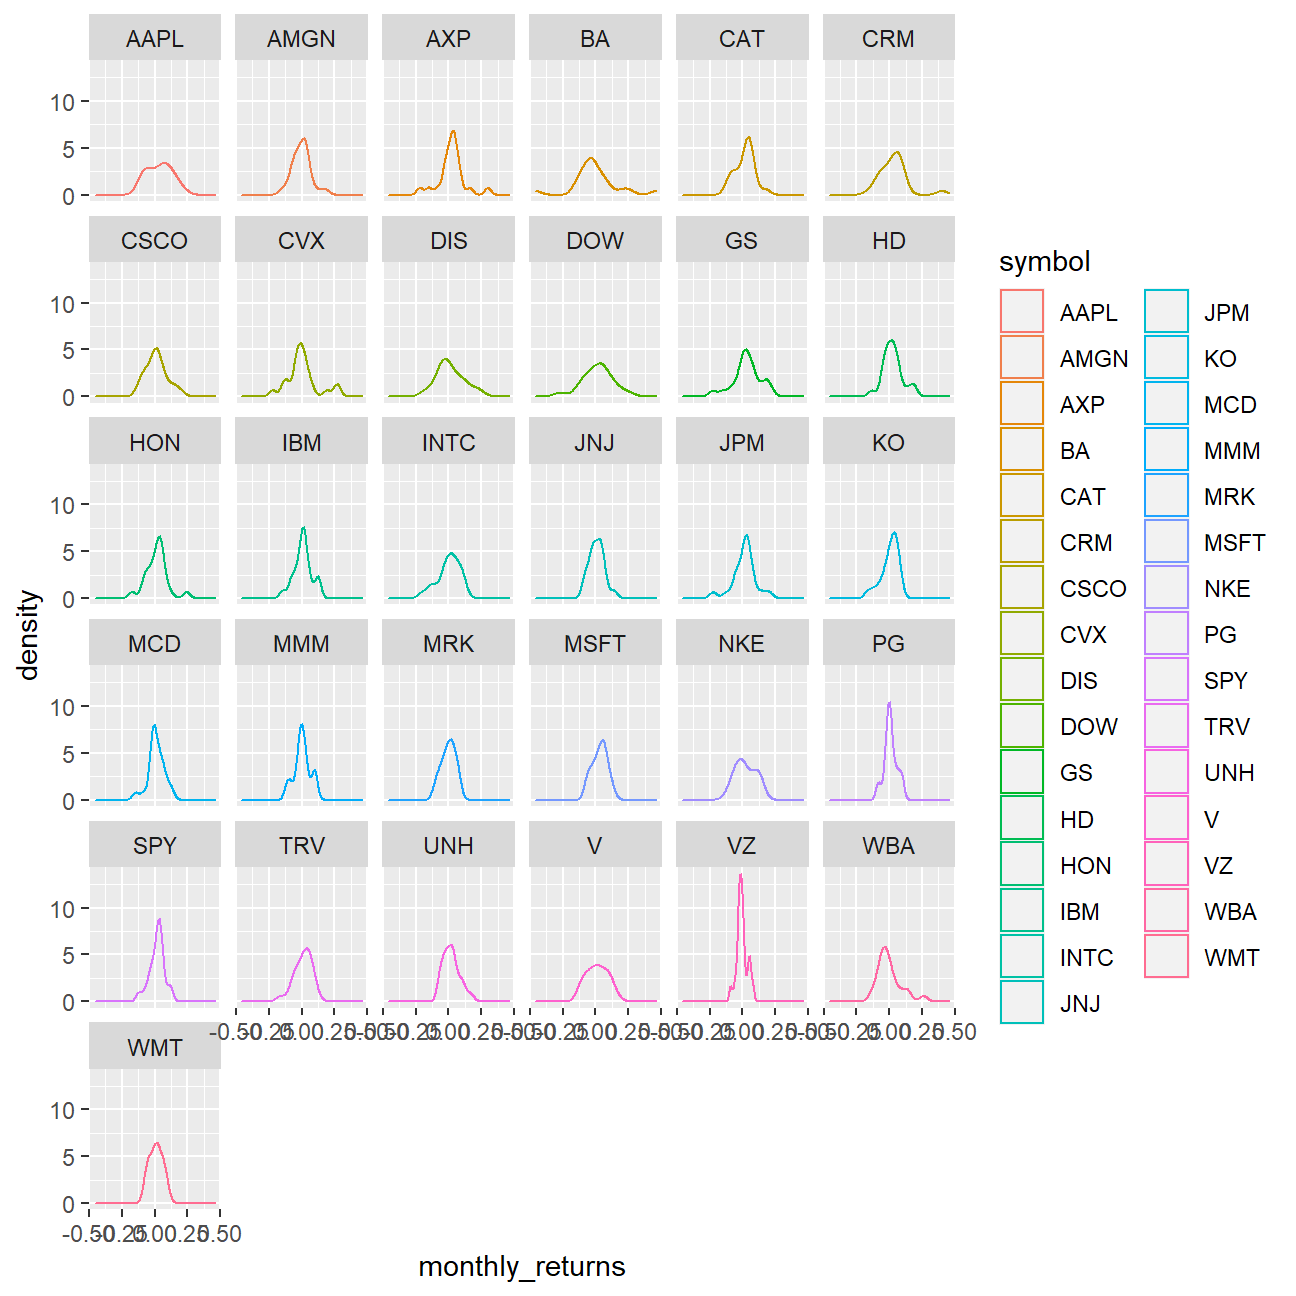
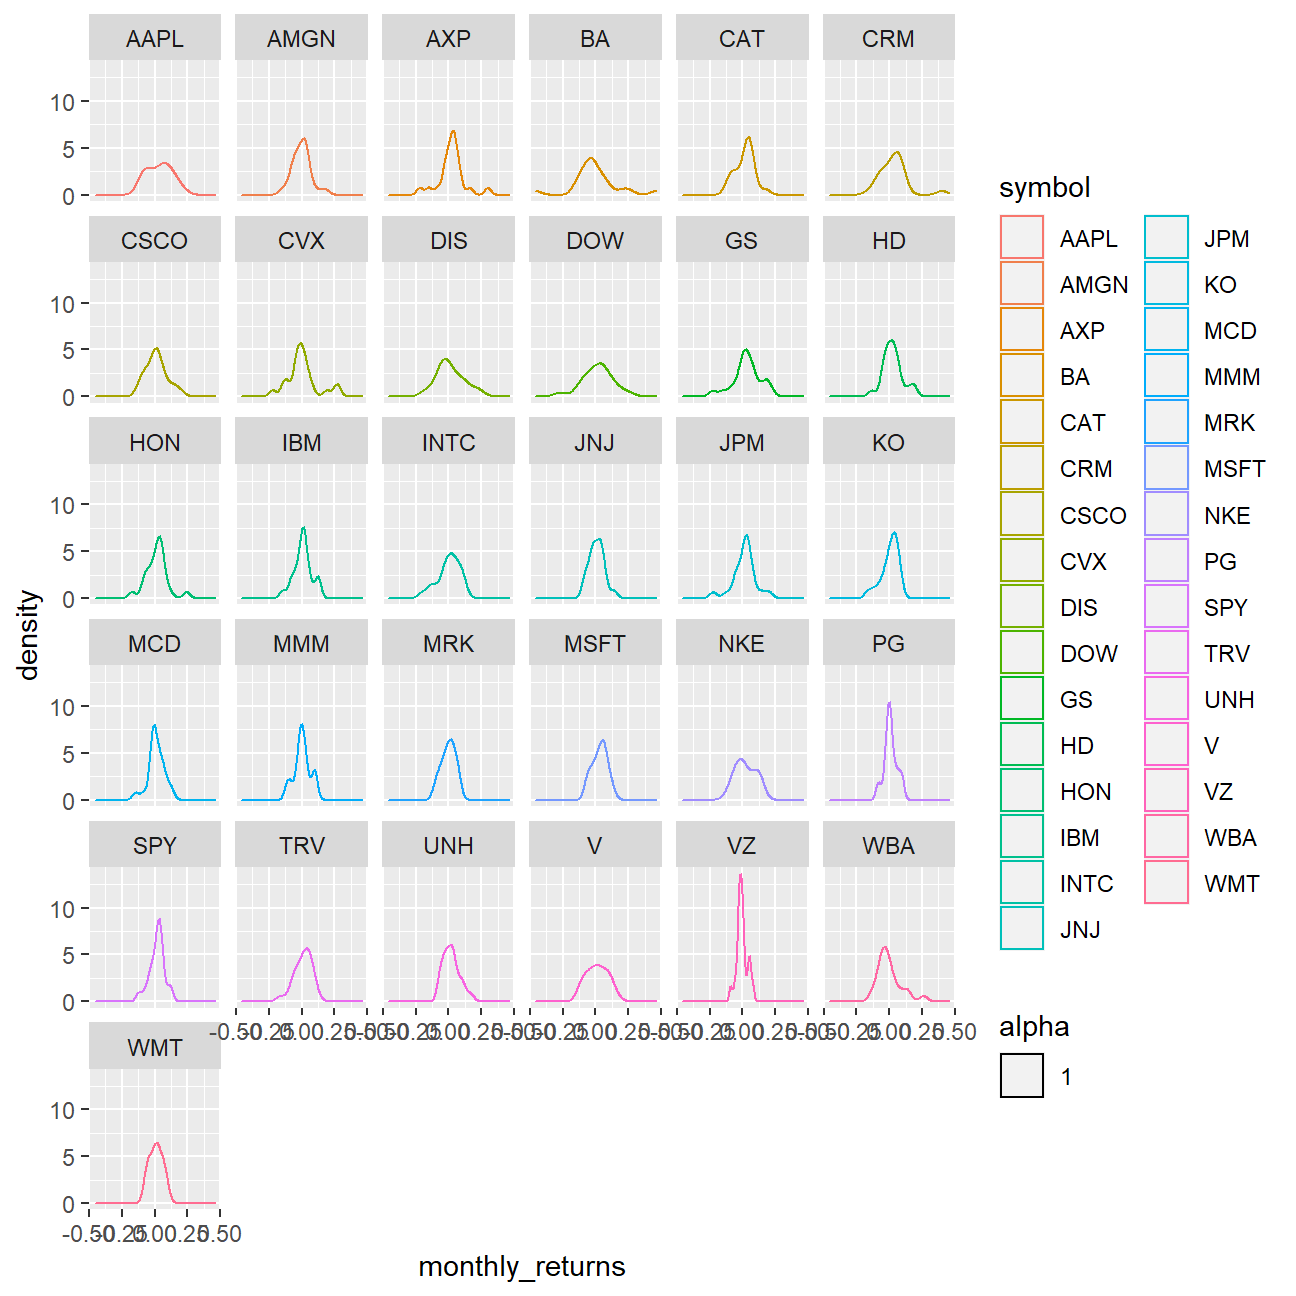
initial commit

Changed region(s): [[0.7716, 0.1543, 0.9877, 0.8025], [0.7716, 0.1235, 0.8333, 0.1543]]

diff --git a/content/blogs/assignment_one.html b/content/blogs/assignment_one.html
@@ -19,10 +19,7 @@ title: Risk Return of DJIA Industrial Average
 
 <div id="my-first-r-assigment" class="section level2">
 <h2>My First R Assigment</h2>
-<p>The following graphs are about the performance of DJIA and the methodologies regarding the process to reach each graphs. The work was part of my first R assignment I had done with my study group in Data Analytics for Finance course at LBS.</p>
-</div>
-<div id="returns-of-financial-stocks" class="section level1">
-<h1>Returns of financial stocks</h1>
+<p>The following graphs are about the performance of DJIA and the methodologies regarding the processes to reach each graphs. The work was part of my first R assignment I had done with my study group in Data Analytics for Finance course at LBS.</p>
 <p>We start off by downloading stock data from the New York Stock Exchange:</p>
 <pre class="r"><code>nyse &lt;- read_csv(here::here(&quot;data&quot;,&quot;nyse.csv&quot;))</code></pre>
 <p>Then we create a table and a bar plot that shows the number of companies per sector, in descending order:</p>
@@ -244,7 +241,7 @@ myStocks_returns_annual &lt;- myStocks %&gt;%
                type       = &quot;arithmetic&quot;,
                col_rename = &quot;yearly_returns&quot;,
                cols = c(nested.col))</code></pre>
-<p><strong>Creating a table summarizing monthly returns for each of the stocks and <code>SPY</code></strong></p>
+<p>Creating a table summarizing monthly returns for each of the stocks and <code>SPY</code></p>
 <pre class="r"><code>myStocks_returns_monthly %&gt;% #We take the relevant dataset.
   group_by(symbol) %&gt;% #We group the stocks by symbol.
   summarise(min=min(monthly_returns),max=max(monthly_returns),median=median(monthly_returns),mean=mean(monthly_returns),sd=sd(monthly_returns)) %&gt;% #We summarise to obtain the minimum, maximum, median, mean and standard deviation of monthly returns.
@@ -898,13 +895,12 @@ BA
 </tr>
 </tbody>
 </table>
-<div id="density-plot-for-each-stock" class="section level2">
-<h2>Density plot for each stock</h2>
-<p><strong>Creating a density plot, using <code>geom_density()</code>, for each of the stocks</strong></p>
+<p><strong>Density plot for each stock</strong></p>
+<p>Creating a density plot, using <code>geom_density()</code>, for each of the stocks</p>
 <pre class="r"><code>myStocks_returns_monthly %&gt;% #We take the relevant dataset.
   group_by(symbol) %&gt;% #We group the stocks by symbol.
   ggplot(aes(x = monthly_returns)) + #We define the x-axis of our density plots.
-  geom_density(aes(colour = symbol), alpha = 1) + #We create our density plots.
+  geom_density(aes(colour = symbol,alpha = 1)) + #We create our density plots.
   facet_wrap(vars(symbol)) #We create a density plot for each stock symbol.</code></pre>
 <p><img src="/blogs/assignment_one_files/figure-html/density_monthly_returns-1.png" width="648" style="display: block; margin: auto;" /></p>
 <pre class="r"><code>myStocks_returns_monthly %&gt;% #We take the relevant dataset.
@@ -1370,10 +1366,8 @@ VZ
 </table>
 <p><strong>What can we infer from this plot and which stock is the riskiest/least risky?</strong></p>
 <p>From this plot and a table ranking the stock by the standard deviation of their monthly returns, we can see that the stock BA is the riskiest, whereas the stock VZ is the least risky.</p>
-</div>
-<div id="plotting-expected-return-and-standard-deviation" class="section level2">
-<h2>Plotting expected return and standard deviation</h2>
-<p><strong>Plot that shows the expected monthly return (mean) of a stock on the Y axis and the risk (standard deviation) in the X-axis</strong></p>
+<p><strong>Plotting expected return and standard deviation</strong></p>
+<p>Plot that shows the expected monthly return (mean) of a stock on the Y axis and the risk (standard deviation) in the X-axis</p>
 <pre class="r"><code># YOUR CODE GOES HERE
 myStocks_returns_monthly %&gt;%
 group_by(symbol) %&gt;%
@@ -1397,5 +1391,4 @@ NULL</code></pre>
 <p><img src="/blogs/assignment_one_files/figure-html/risk_return_plot-1.png" width="648" style="display: block; margin: auto;" /></p>
 <p><strong>What can you we infer from this plot? Are there any stocks which, while being riskier, do not have a higher expected return?</strong></p>
 <p>The graph plots each stock’s standard deviations against their expected returns. The stocks in the fourth quadrant (bottom right) of the graph have both the highest SD, hence the highest beta, and the lowest historic returns. We would expect these stocks to be poor investments, as they are those that bear the highest risk and the lowest expected returns.</p>
-</div>
 </div>

diff --git a/content/blogs/metavee.html b/content/blogs/metavee.html
@@ -8,12 +8,12 @@ categories:
 - ''
 - ''
 draft: no
+image: me2.jpg
 ---
 
 <script src="/rmarkdown-libs/header-attrs/header-attrs.js"></script>
 
 
-<p><img src="/img/blogs/me2.JPG" /><!-- --></p>
 <div id="metavee-luangthawornkul" class="section level2">
 <h2>Metavee Luangthawornkul</h2>
 <p>Hello everyone! This blog is a combination of what I have learned in R from the Data Analytics course at LBS and my personal life experience!</p>
